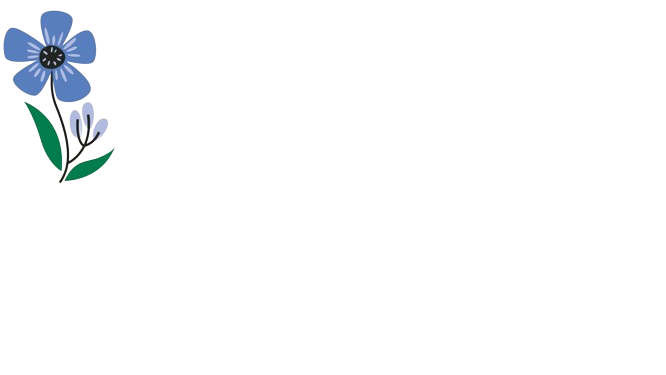
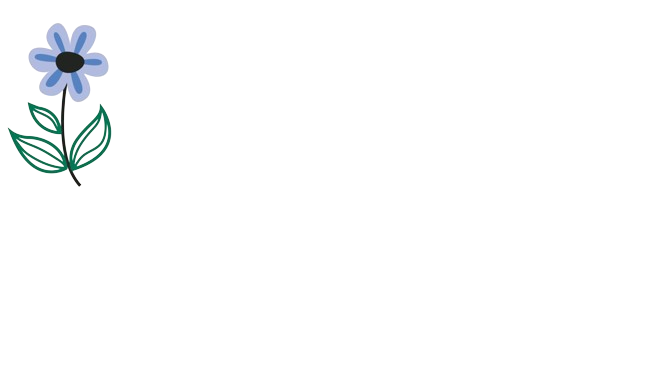
Update Flowers

Changed region(s): [[0.0, 0.0293, 0.1802, 0.4987]]

diff --git a/database_manager.py b/database_manager.py
@@ -13,7 +13,7 @@ class DatabaseManager:
         ### To reset users table in db
         # cursor.execute('''
         #     DROP TABLE IF EXISTS users
-        #     ''')
+        #      ''')
 
         # Create the 'users' table
         cursor.execute('''
@@ -180,7 +180,7 @@ class DatabaseManager:
             # Check if the flowers table is empty
             if self.check_table_empty_flowers(conn):
                 # Insert flower images
-                for i in range(1, 10):
+                for i in range(1, 6):
                     image_path = f"flowers/f{i}.png"
                     conn.execute('INSERT INTO flowers (image_path) VALUES (?)', (image_path,))
 

diff --git a/main.py b/main.py
@@ -32,7 +32,6 @@ class MainWindow(Screen):
         if f1 != 0:
             image_widget = self.ids.flower1
             image_widget.source = f'flowers/f{f1}.png'
-            print("Image Source:", image_widget.source)
 
         f2 = backend.get_flower(2)
         if f2 != 0:
@@ -43,7 +42,7 @@ class MainWindow(Screen):
         if f3 != 0:
             image_widget = self.ids.flower3
             image_widget.source = f'flowers/f{f3}.png'
-    
+
     def on_enter(self):
         self.auto_update(0)  # Pass dt=0 to simulate an immediate update
 

diff --git a/backend.py b/backend.py
@@ -48,7 +48,7 @@ class Backend:
         if points >= self.flower_price:
             print("here")
             self.db_manager.subtract_points(self.user_id, self.flower_price)
-            flower_id = random.randint(1, 9)
+            flower_id = random.randint(1, 5)
             self.db_manager.add_flower(self.user_id, pot_number, flower_id)
             return True
         else:
